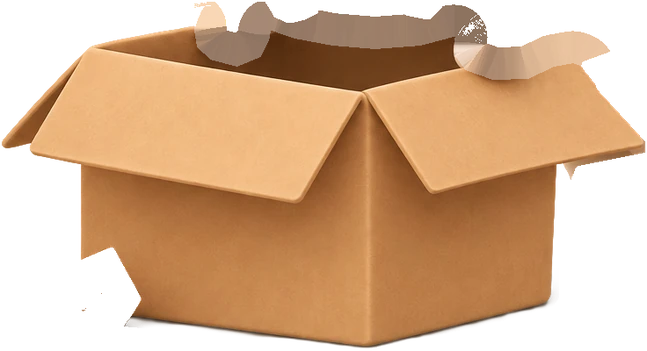
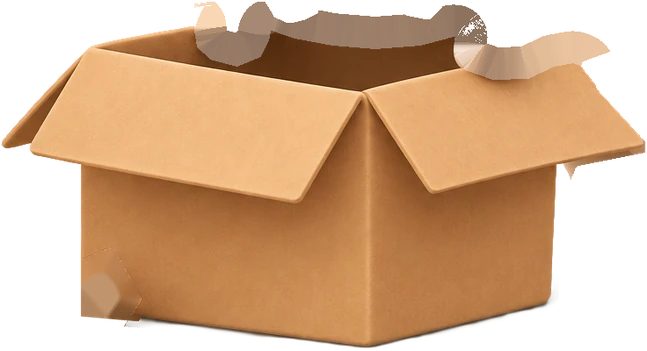
🐛 fix(not-found): rebuild the box corner behind the paper, soften the lids and light the dark-mode whiskers
The box layer had its front-left corner cut out where the paper sat, so a roll showed the page through it; the corner is rebuilt from the wall and bottom edges and the paper now stacks above the box. The lids take one fur colour each, matte, with a soft edge line. On the dark page the whiskers swap to their strokes alone in a light warm grey instead of an inverted copy whose fringes doubled.

Changed region(s): [[0.1236, 0.6838, 0.2164, 0.9402]]

diff --git a/components/lost-cat.tsx b/components/lost-cat.tsx
@@ -24,14 +24,17 @@ const P = {
   "ear-right": { left: 45.293, top: 15.264, width: 23.849, w: 200, h: 156 },
   "eye-left-white": { left: 36.715, top: 44.712, width: 8.787, w: 74, h: 76 },
   "eye-left-solid": { left: 37.029, top: 45.553, width: 8.159, w: 69, h: 66 },
-  "lid-left-half": { left: 36.611, top: 44.952, width: 8.577, w: 72, h: 58 },
+  "lid-left-half": { left: 36.611, top: 44.952, width: 8.577, w: 72, h: 66 },
   "lid-left-closed": { left: 36.611, top: 44.952, width: 8.577, w: 72, h: 70 },
   "eye-right-white": { left: 51.151, top: 43.149, width: 9.519, w: 80, h: 83 },
   "eye-right-solid": { left: 51.569, top: 43.87, width: 8.996, w: 76, h: 72 },
-  "lid-right-half": { left: 51.674, top: 43.389, width: 9.31, w: 78, h: 54 },
+  "lid-right-half": { left: 51.674, top: 43.389, width: 9.31, w: 78, h: 67 },
   "lid-right-closed": { left: 51.674, top: 43.389, width: 9.31, w: 78, h: 76 },
   "whiskers-left": { left: 27.197, top: 47.957, width: 7.636, w: 64, h: 40 },
   "whiskers-right": { left: 61.506, top: 43.75, width: 8.473, w: 71, h: 57 },
+  // The whiskers' dark strokes alone, in a light warm grey, for the dark page.
+  "whiskers-left-light": { left: 27.197, top: 47.957, width: 7.636, w: 64, h: 40 },
+  "whiskers-right-light": { left: 61.506, top: 43.75, width: 8.473, w: 71, h: 57 },
   "paw-left": { left: 30.335, top: 49.76, width: 9.833, w: 83, h: 83 },
   "paw-right": { left: 61.297, top: 47.957, width: 21.862, w: 184, h: 109 },
 } satisfies Record<string, Box>;
@@ -346,9 +349,6 @@ export const Cat = () => {
       }}
     >
       <Layer part="shadow" />
-      <div className={styles.rig} data-rig="paper">
-        <Layer part="paper" />
-      </div>
       <div className={styles.rig} data-rig="tail">
         <Layer part="tail" />
         <Layer part="tail-root" motion />
@@ -357,6 +357,10 @@ export const Cat = () => {
         <Layer part="body" />
       </div>
       <Layer part="box" />
+      {/* The paper sits in front of the box's corner, so it can roll off it. */}
+      <div className={styles.rig} data-rig="paper">
+        <Layer part="paper" />
+      </div>
       {/* The neck and the box behind the chin, for when the head moves. */}
       <Layer part="neck-under" motion />
       <div className={styles.rig} data-rig="head">
@@ -372,6 +376,8 @@ export const Cat = () => {
         <Eye side="right" />
         <Layer part="whiskers-left" />
         <Layer part="whiskers-right" />
+        <Layer part="whiskers-left-light" />
+        <Layer part="whiskers-right-light" />
       </div>
       {/* The paws stay on the rim. */}
       <Layer part="paw-left" />

diff --git a/components/lost-cat.module.css b/components/lost-cat.module.css
@@ -67,11 +67,19 @@
   will-change: transform;
 }
 
-/* The whiskers are dark lines drawn for a light ground; on the dark page they
-   lighten so they still read. */
+/* The whiskers are dark lines drawn for a light ground, with fur-coloured
+   fringes; on the dark page their strokes alone show instead, already light,
+   so no filter can turn a fringe into a second line. */
+.part[data-part$="-light"] {
+  display: none;
+}
 @media (prefers-color-scheme: dark) {
-  .part[data-part^="whiskers"] {
-    filter: invert(1) brightness(0.82) sepia(0.25);
+  .part[data-part="whiskers-left"],
+  .part[data-part="whiskers-right"] {
+    display: none;
+  }
+  .part[data-part$="-light"] {
+    display: block;
   }
 }
 /* The feet: the body breathes from the floor. */
